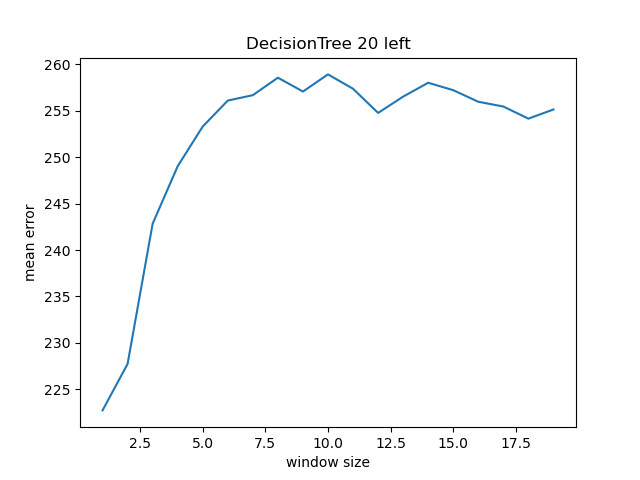
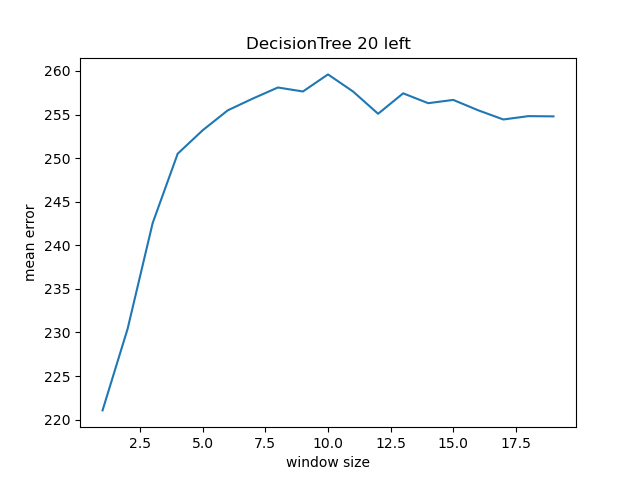
support for splitting PIDs into train and test splits

diff --git a/cross_validator.py b/cross_validator.py
@@ -15,8 +15,7 @@ from sklearn.metrics import accuracy_score, mean_absolute_error
 warnings.filterwarnings("ignore")
 
 dataset = 'Baseline'
-graph_path = os.path.join('graphs')
-error_path = os.path.join('errors')
+result_path = os.path.join('results')
 data_saving_path = None
 n_jobs = None
 
@@ -25,7 +24,7 @@ if os.name == 'nt':
     eye_data_path = 'C:/Users/Anuj/Desktop/Canary/Baseline/eye_movement'
     diagnosis_file_path = 'C:/Users/Anuj/Desktop/Canary/canary-nlp/datasets/csv_tables/participant_log.csv'
     data_saving_path = 'C:/Users/Anuj/Desktop/Canary/Baseline/extracted_data4/'
-    n_jobs = 2
+    n_jobs = 6
 
 elif os.name == 'posix':
     processed_files_path = '/home/anuj/OpenFace2/OpenFace/build/processed/'
@@ -174,6 +173,10 @@ window_iter = 20
 modes = ['left', 'right', 'both_eyes', 'avg_vector', 'avg_angle', 'all']  # don't use avg_angle, it's not
 
 for idx in range(nfolds):
+    fold_path = os.path.join(result_path, idx)
+    if not os.path.exists(fold_path):
+        os.mkdir(fold_path)
+
     data = {'train': {i: None for i in range(1, window_iter)},
             'test': {i: None for i in range(1, window_iter)},
             'all': {i: None for i in range(1, window_iter)}}
@@ -191,7 +194,6 @@ for idx in range(nfolds):
         all_window_data = all_window_data[all_full_data_points]
 
         # lens.append(len(window_data))
-        print('all data points:', len(all_window_data))
         all_mode_data['x']['all'] = all_window_x_all = all_window_data[:, :nip]  # all x
         all_mode_data['x']['both_eyes'] = all_window_data[:, :6]
         all_mode_data['x']['left'] = all_window_x_left = all_window_x_all[:, :3]  # left x
@@ -216,7 +218,7 @@ for idx in range(nfolds):
         train_window_data = train_window_data[train_full_data_points]
 
         # lens.append(len(window_data))
-        print('train data points:', len(train_window_data))
+        # print('train data points:', len(train_window_data))
         train_mode_data['x']['all'] = train_window_x_all = train_window_data[:, :nip]  # all x
         train_mode_data['x']['both_eyes'] = train_window_data[:, :6]
         train_mode_data['x']['left'] = train_window_x_left = train_window_x_all[:, :3]  # left x
@@ -240,7 +242,7 @@ for idx in range(nfolds):
         test_full_data_points = [i for i in range(len(test_window_data)) if test_window_data[i].any() != False]
         test_window_data = test_window_data[test_full_data_points]
 
-        print('test data points:', len(test_window_data))
+        # print('test data points:', len(test_window_data))
         test_mode_data['x']['all'] = test_window_x_all = test_window_data[:, :nip]  # all x
         test_mode_data['x']['both_eyes'] = test_window_data[:, :6]
         test_mode_data['x']['left'] = test_window_x_left = test_window_x_all[:, :3]  # left x
@@ -277,16 +279,19 @@ for idx in range(nfolds):
 
                 model = ClassifiersFactory().get_model(clf)
                 chain = RegressorChain(base_estimator=model)
-                cv = RepeatedKFold(n_splits=10, n_repeats=10, random_state=0)
+                # cv = RepeatedKFold(n_splits=10, n_repeats=10, random_state=0)
                 # train_errors = np.absolute(cross_val_score(chain, train_window_x, train_window_y,
                 #                                            scoring='neg_mean_absolute_error',
                 #                                            cv=cv, n_jobs=n_jobs))
-                train_errors = cross_validate(chain, train_window_x, train_window_y,
-                                              scoring='neg_mean_absolute_error',
-                                              cv=cv, n_jobs=-1,
-                                              return_estimator=True, return_train_score=True)
-                train_mean_errors.append(np.mean(train_errors))
+                # train_errors = cross_validate(chain, train_window_x, train_window_y,
+                #                               scoring='neg_mean_absolute_error',
+                #                               cv=cv, n_jobs=-1,
+                #                               return_estimator=True, return_train_score=True)
 
+                chain = chain.fit(train_window_x, train_window_y)
+                window_preds = chain.predict(test_window_x)
+                error = mean_absolute_error(y_true=test_window_y, y_pred=window_preds)
+                train_mean_errors.append(np.mean(error))
 
             plt.clf()
             plt.title('{} {} {}'.format(clf, window_iter, mode))
@@ -294,8 +299,8 @@ for idx in range(nfolds):
             plt.ylabel('mean error')
             plt.plot(windows, train_mean_errors)
             print('saving plot {}_{}_{}.png'.format(clf, window_iter, mode))
-            plt.savefig(os.path.join(graph_path, '{}_{}_{}.png'.format(clf, window_iter, mode)))
+            plt.savefig(os.path.join(fold_path, '{}_{}_{}.png'.format(clf, window_iter, mode)))
             plt.close()
 
-            error_filename = os.path.join(error_path, '{}_{}_{}.csv'.format(clf, window_iter, mode))
+            error_filename = os.path.join(fold_path, '{}_{}_{}.csv'.format(clf, window_iter, mode))
             pd.DataFrame(train_mean_errors, columns=['mean absolute error'], index=windows).to_csv(error_filename)

diff --git a/ModelHandler.py b/ModelHandler.py
@@ -3,6 +3,7 @@ from sklearn.ensemble import RandomForestRegressor, GradientBoostingRegressor, A
 from sklearn.tree import DecisionTreeRegressor
 from sklearn.neighbors import KNeighborsRegressor
 from sklearn.svm import LinearSVR
+from sklearn.dummy import DummyRegressor
 
 
 import warnings
@@ -20,7 +21,8 @@ class ClassifiersFactory:
             "GradBoost": GradientBoostingRegressor(),
             "LinearReg": LinearRegression(),
             "AdaBoost": AdaBoostRegressor(),
-            "Bagging": BaggingRegressor()
+            "Bagging": BaggingRegressor(),
+            "Dummy": DummyRegressor()
         }
 
     def get_models(self, classifiers: list) -> list:
